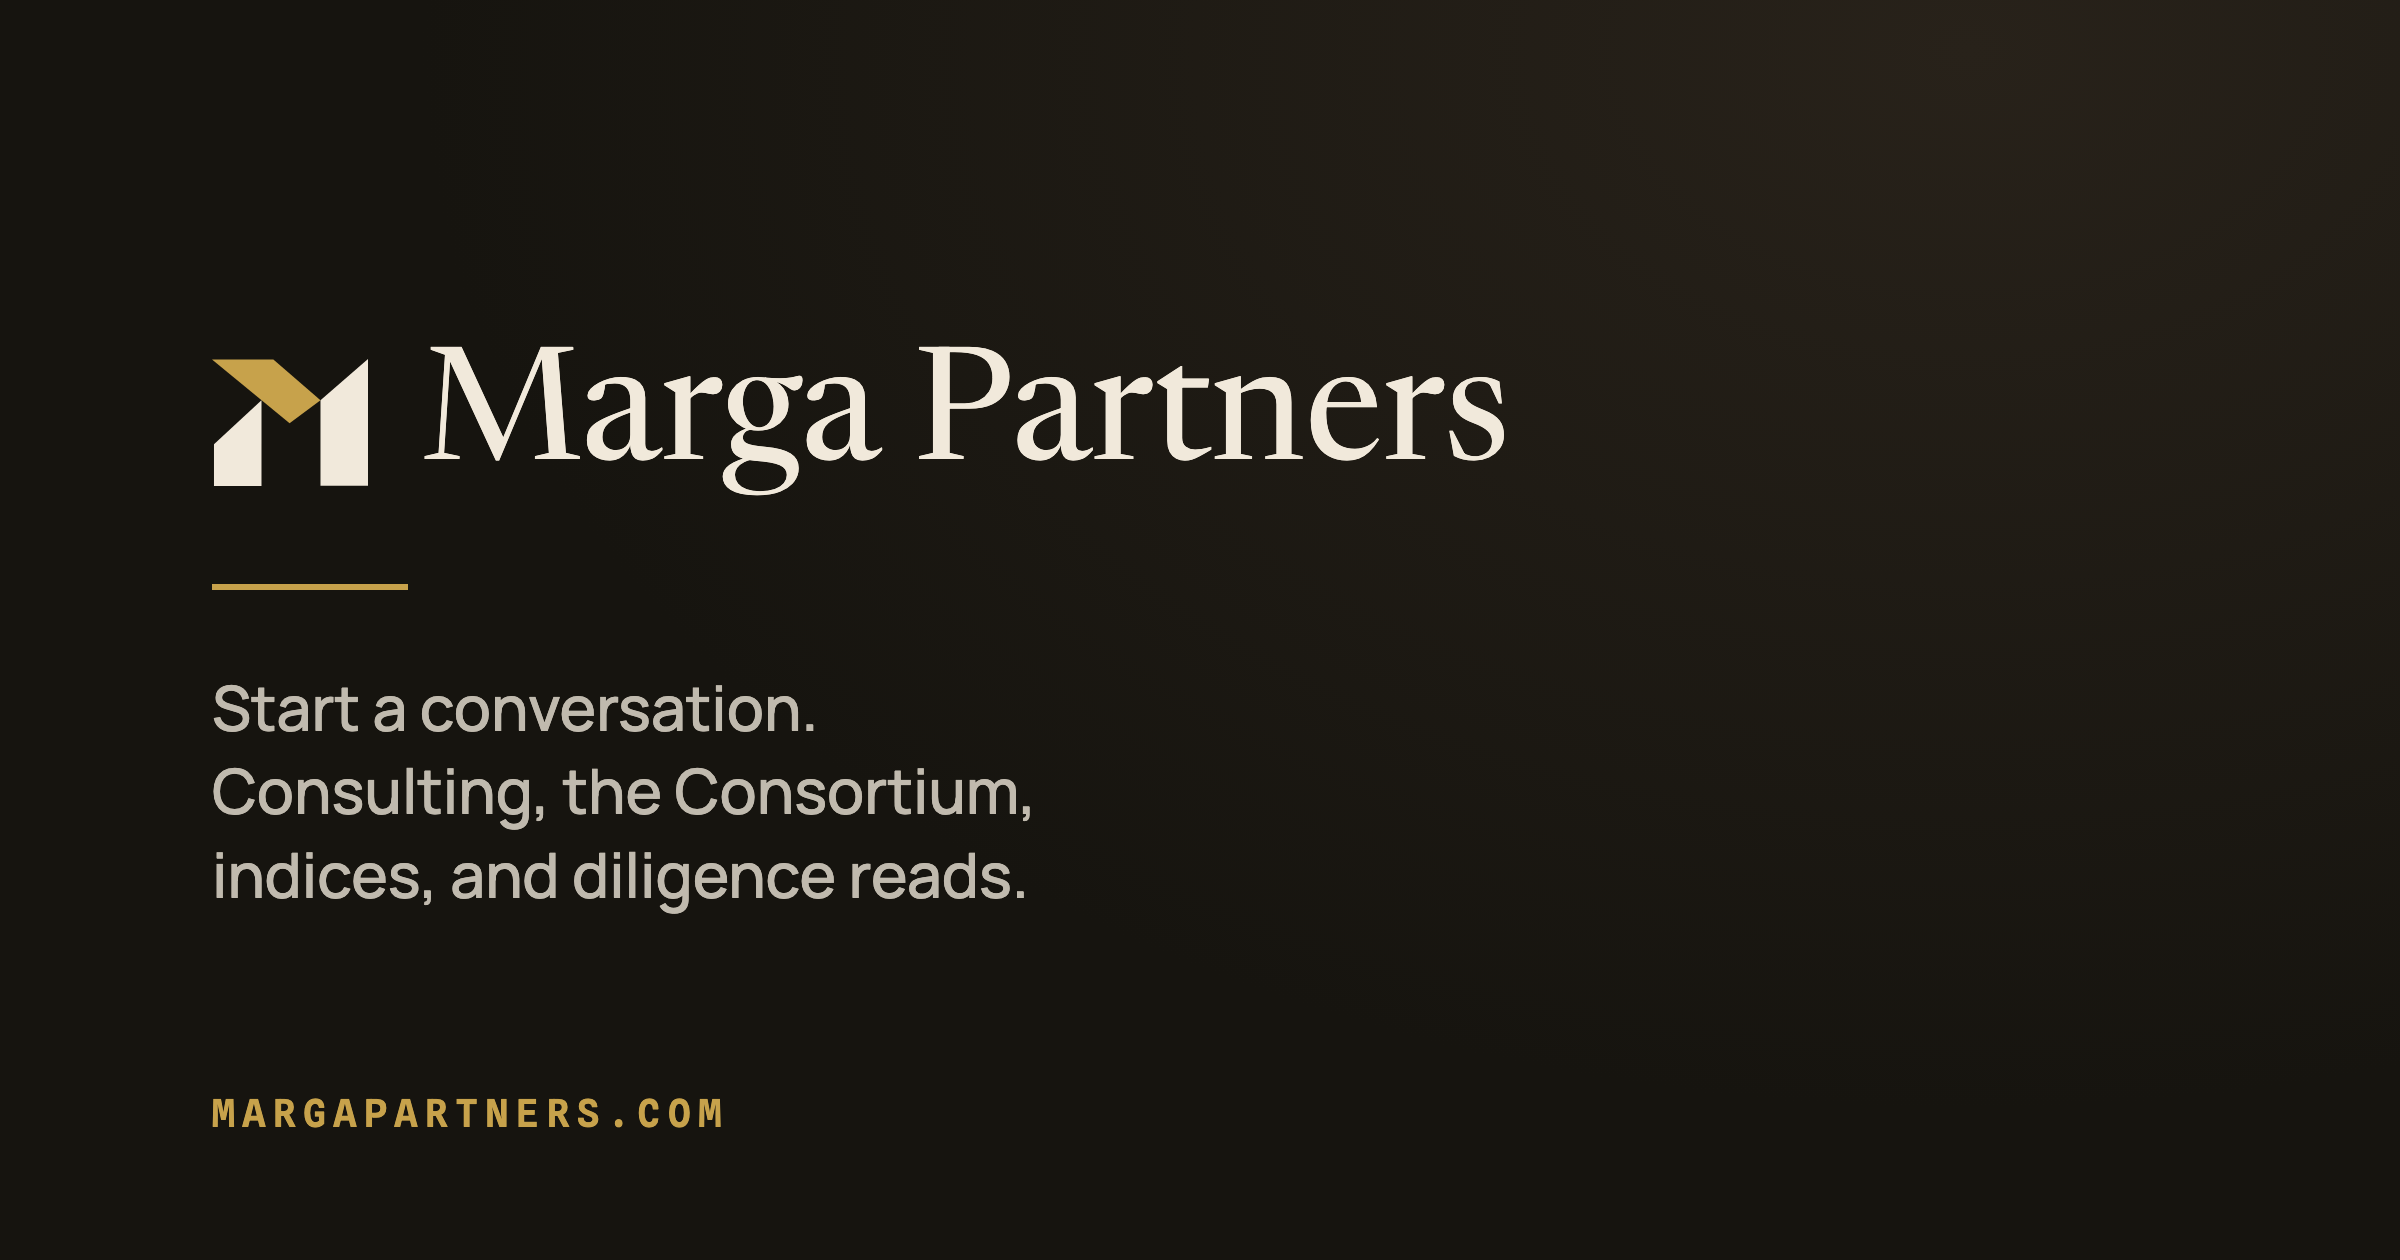
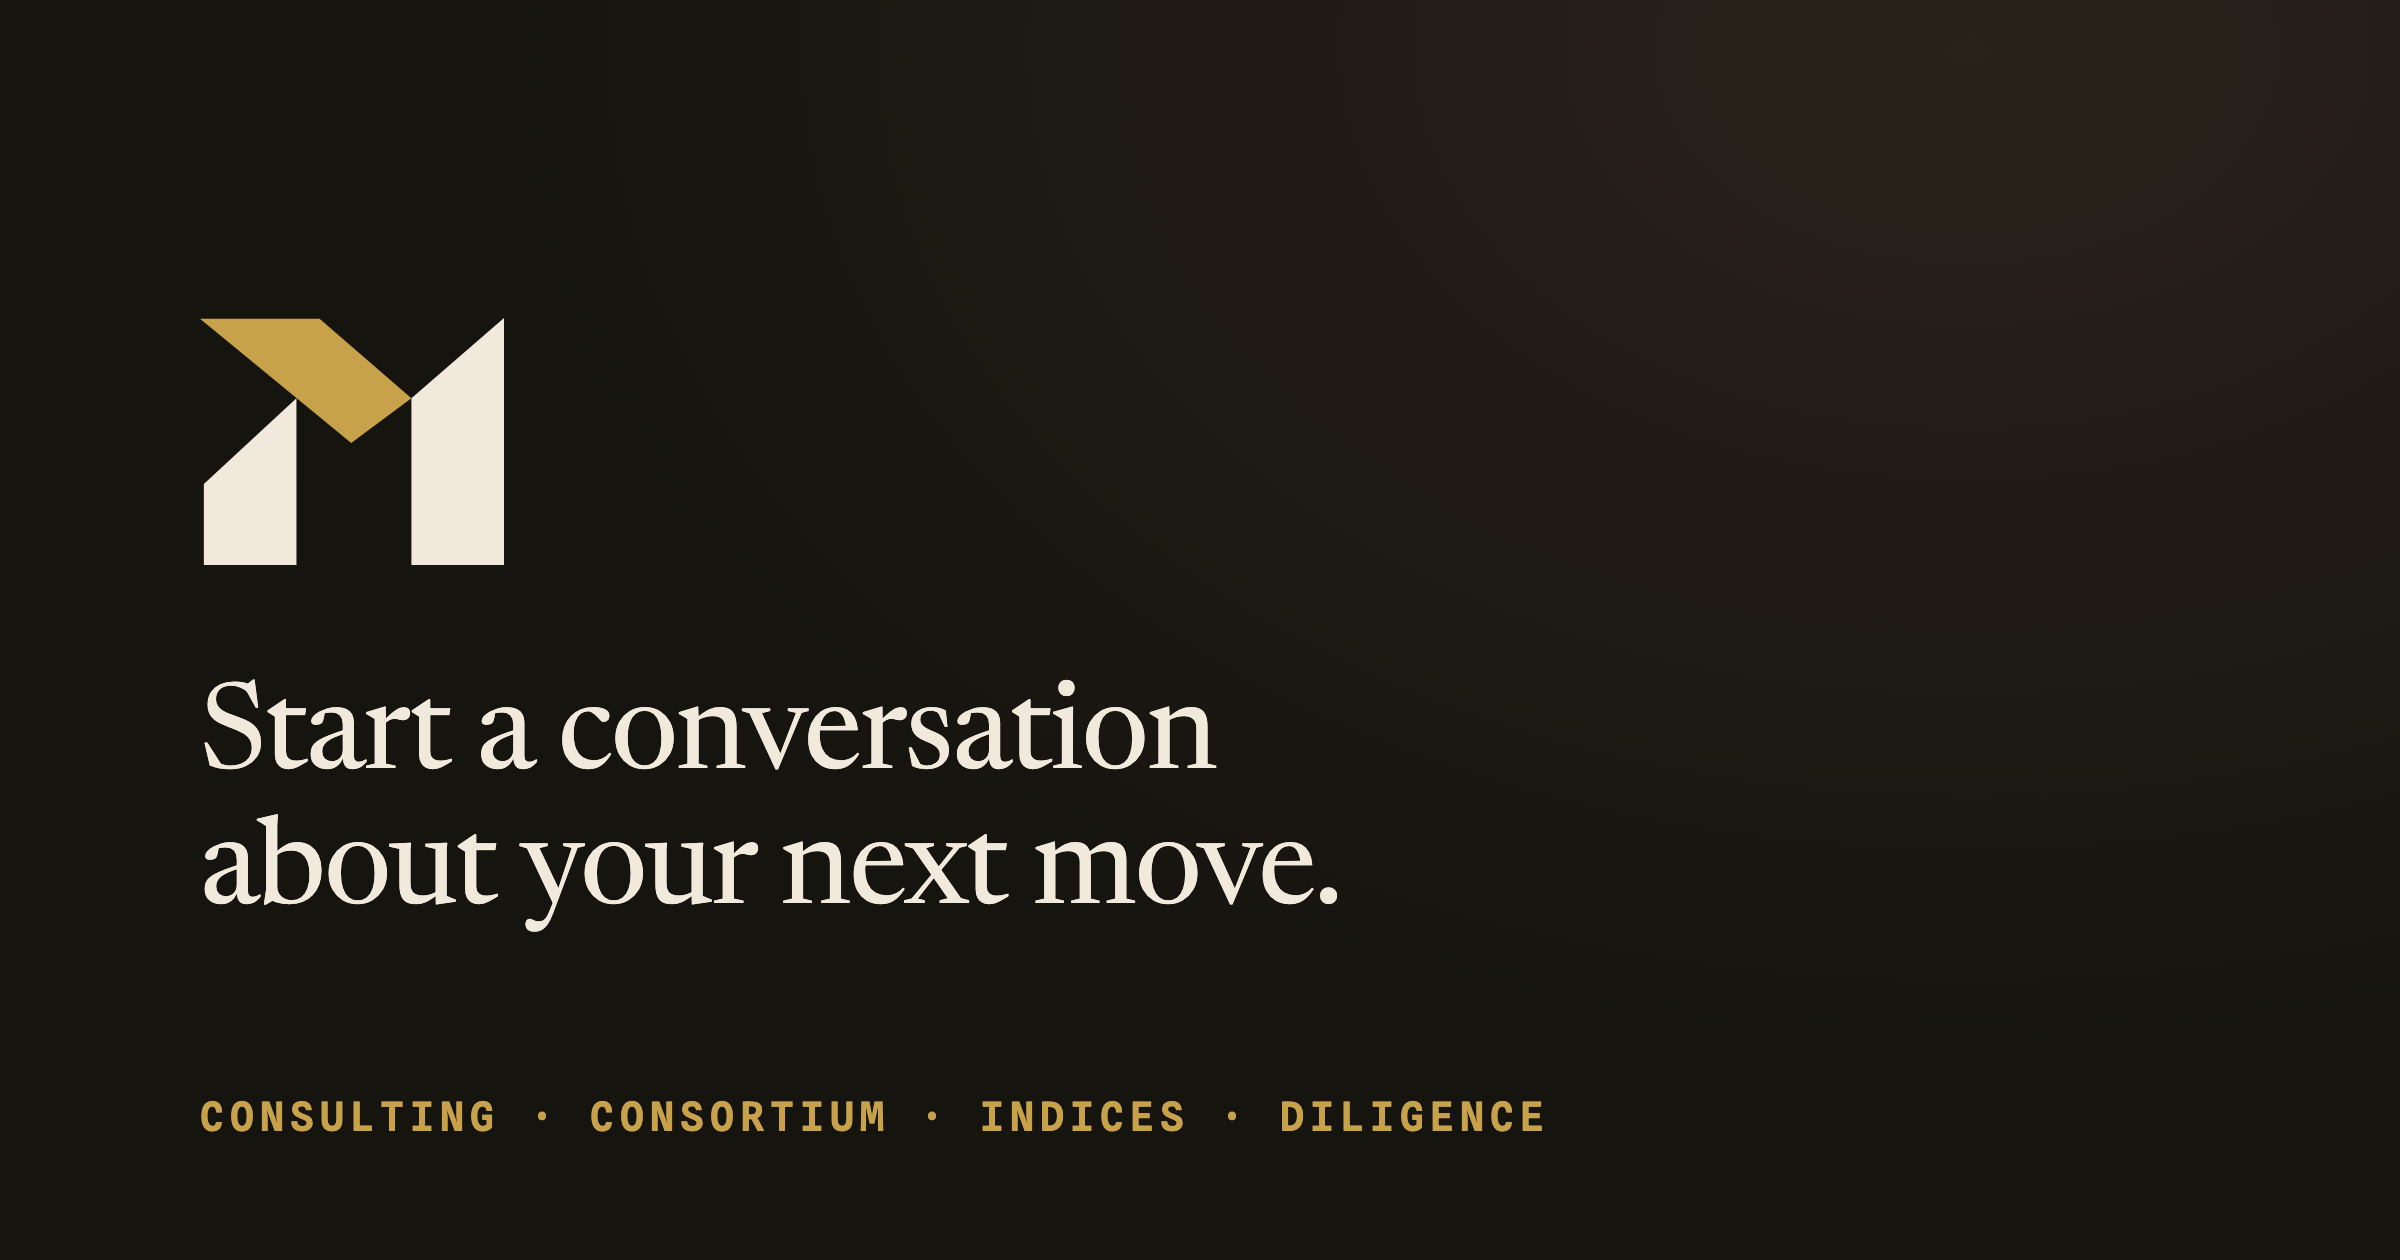
Consortium CTA -> intake form; refresh site OG cards
- for-providers + subscribe: 'Join the Consortium' now links to
  /Consultation.html?type=consortium (the start-a-conversation intake) instead
  of the app signup page.
- Regenerate home / method / consultation OG cards (logo-only, larger line, tagline).

diff --git a/for-providers.html b/for-providers.html
@@ -93,7 +93,7 @@ footer{background:var(--footer);color:rgba(241,233,219,.72)}footer .in{display:f
 <div class="cben"><div class="k">Influence</div><h3>Field perspective</h3><p>Lend the on-the-ground view that keeps the standard honest, from someone who sees the outcome first.</p></div>
 <div class="cben"><div class="k">Recognition</div><h3>A seat at the table</h3><p>Standing among the voices the industry actually wants to hear from.</p></div>
 </div>
-<div class="cta-row" style="margin-top:36px"><a class="primary" href="https://app.margapartners.com/login?tab=signup">Join the Consortium &rarr;</a><a class="ghost d" href="/Consultation.html?type=consortium">Ask a question</a></div>
+<div class="cta-row" style="margin-top:36px"><a class="primary" href="/Consultation.html?type=consortium">Join the Consortium &rarr;</a><a class="ghost d" href="/Consultation.html?type=consortium">Ask a question</a></div>
 </div></section>
 
 <footer><div class="in wrap"><div class="brand"><svg viewBox="0 0 394 321" style="width:22px;height:auto" fill="none"><path d="M394 0V320H274V104L394 0Z" fill="#F1E9DB"></path><path d="M125 104V321H5V215.047L125 104Z" fill="#F1E9DB"></path><path d="M274 104L196 162L0 1H155.229L274 104Z" fill="#C7A24B"></path></svg><b style="color:#F1E9DB;font-size:14px">Marga Partners</b></div><div class="mid">For practices</div><nav><a href="/the-marga-method.html">The Marga Method&trade;</a><a href="/journal.html">MargaZine</a><a href="/Consultation.html">Contact</a></nav></div></footer>

diff --git a/subscribe.html b/subscribe.html
@@ -62,7 +62,7 @@ footer{border-top:1px solid var(--hair);margin-top:40px}footer .in{width:min(720
 <div class="eb" style="margin-bottom:10px">Go further &middot; The Marga Consortium</div>
 <h3 style="font-family:'Newsreader',serif;font-weight:400;font-size:23px;line-height:1.2;color:var(--ink2);margin:0 0 8px">A hand in the standard, not just a subscription.</h3>
 <p style="margin:0 0 16px">The Consortium is a private circle of manufacturers, clinicians, and investors who work with Marga beyond the newsletter: early access to research, members-only events, the Marga Method&trade; and Marga Index&trade; tools, and a hand in the studies that raise the bar for the whole industry.</p>
-<a id="joinConsort" href="https://app.margapartners.com/login?tab=signup" style="display:inline-block;background:var(--gold);color:var(--ink2);padding:13px 22px;border-radius:4px;font-weight:700;font-size:14px">Join the Consortium &rarr;</a>
+<a id="joinConsort" href="/Consultation.html?type=consortium" style="display:inline-block;background:var(--gold);color:var(--ink2);padding:13px 22px;border-radius:4px;font-weight:700;font-size:14px">Join the Consortium &rarr;</a>
 <p style="margin-top:11px;font-size:12px;color:rgba(22,20,15,.5)">You will set a password; requests are reviewed before access is granted.</p>
 </div></div>
 </main>
